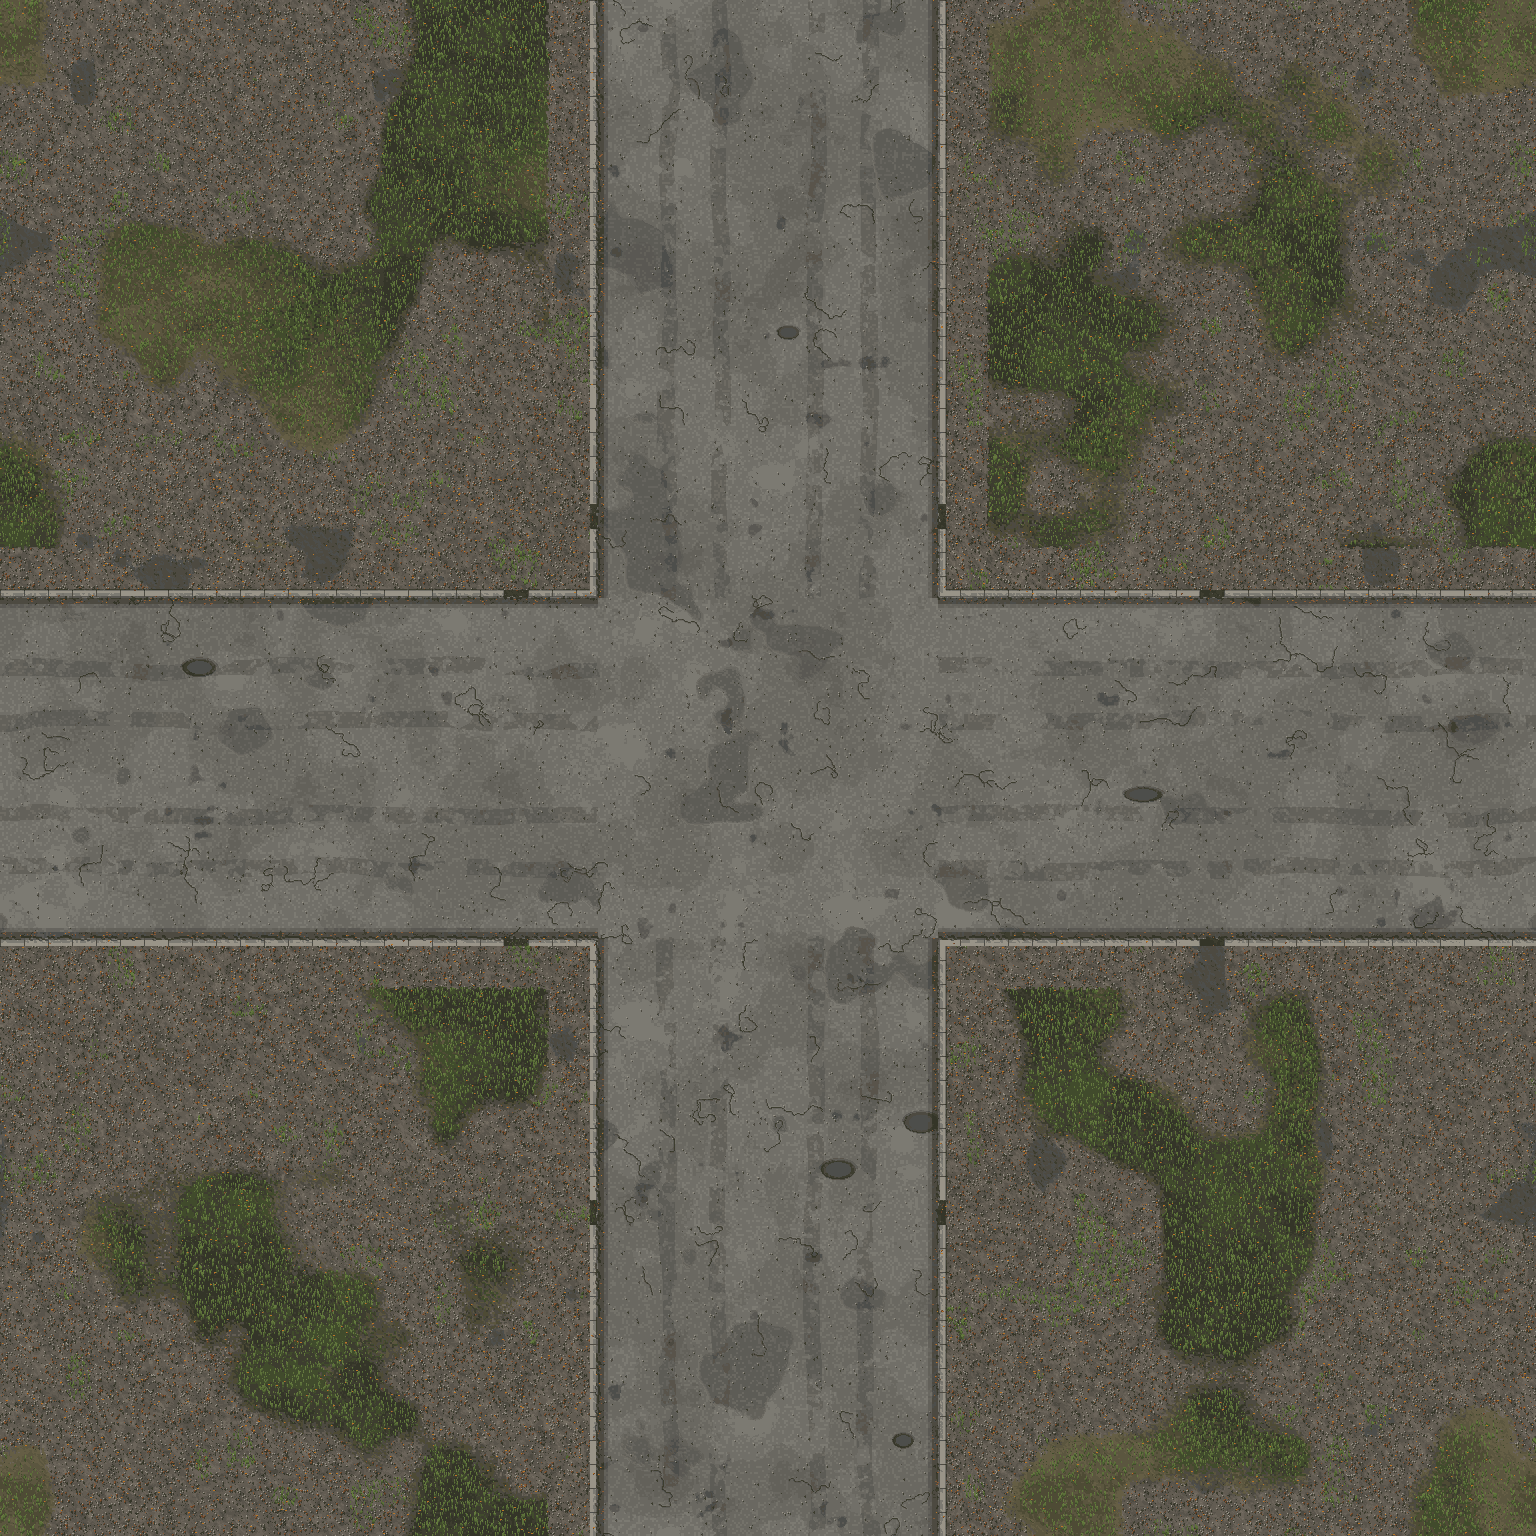
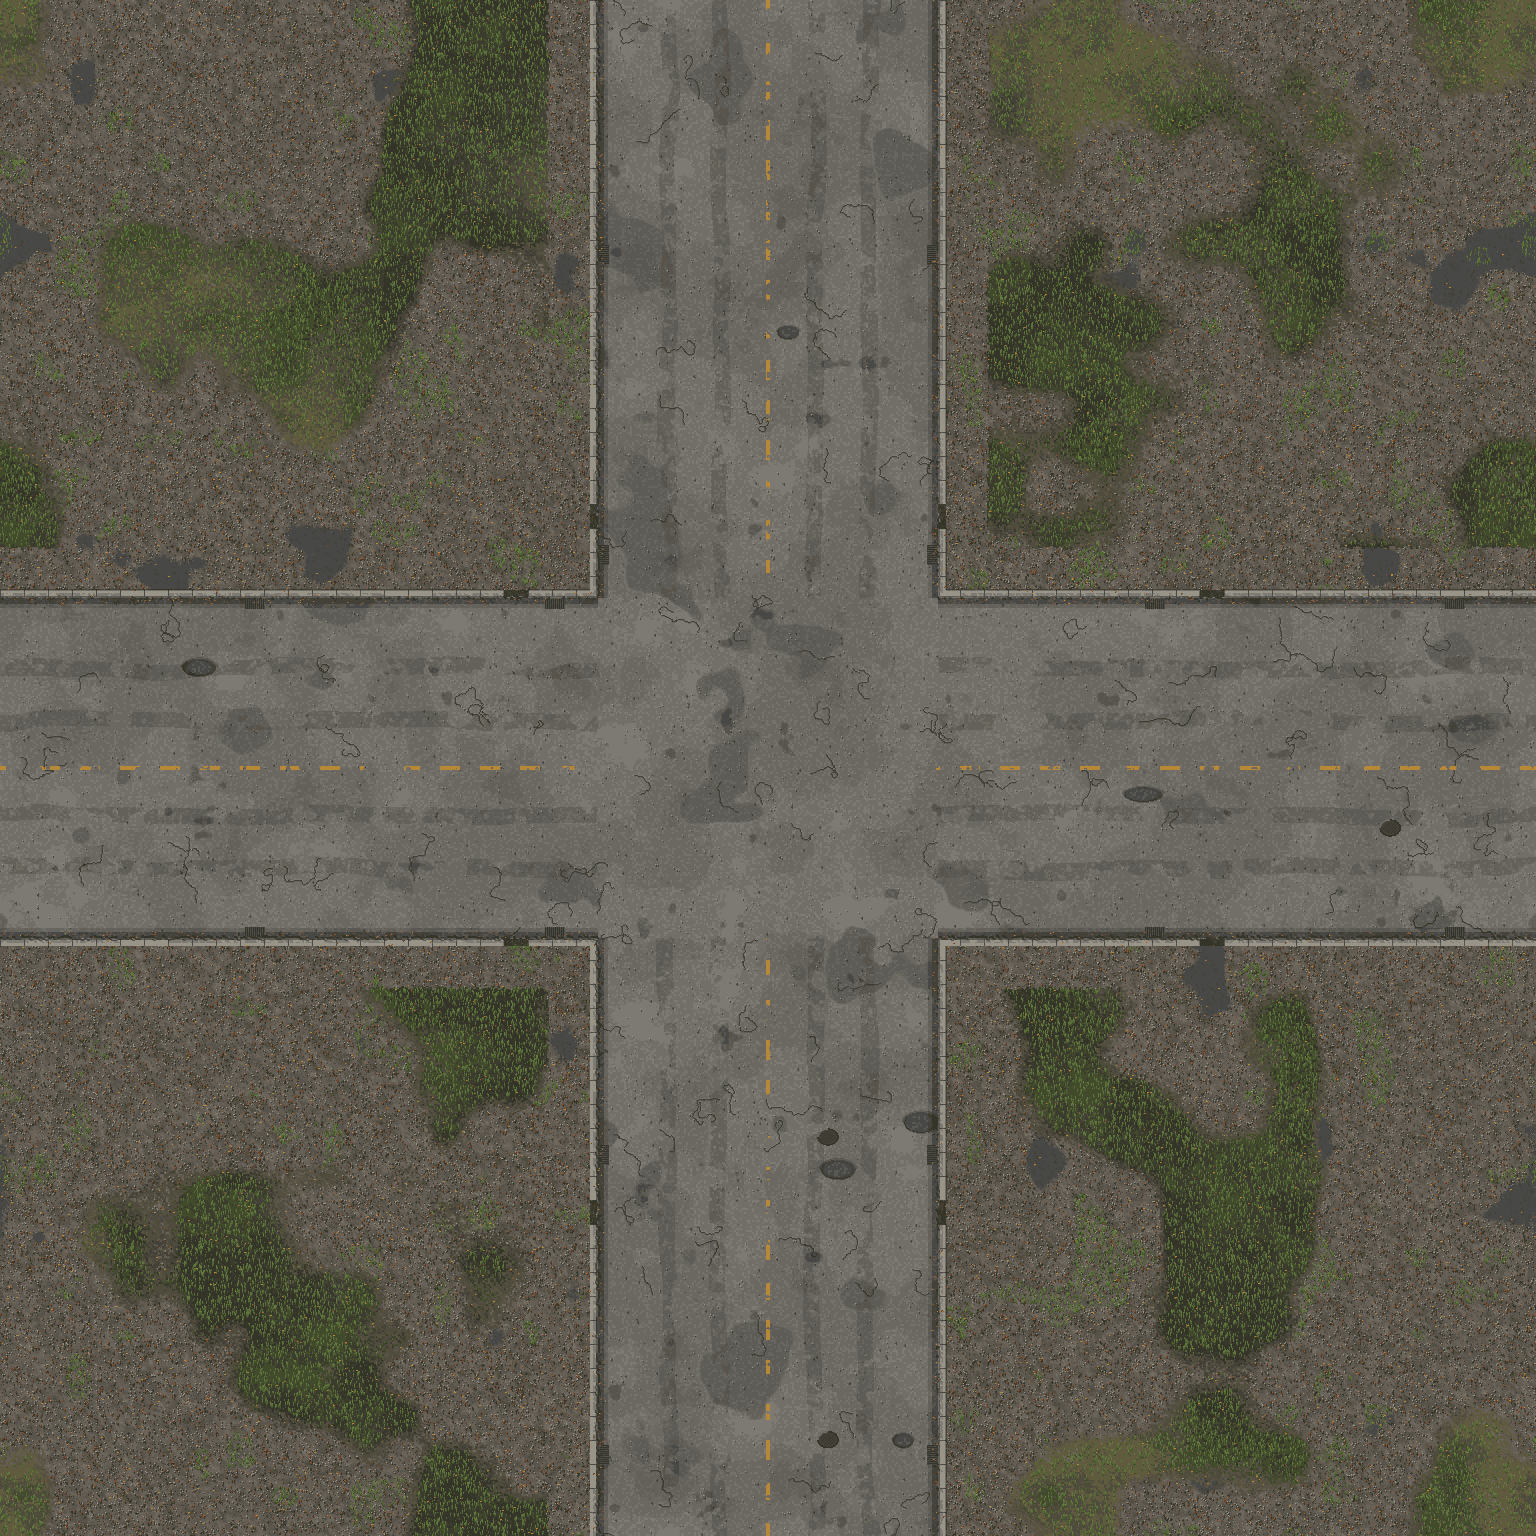
Road markings, manholes, drains and verge clutter on military / industrial streets; lamp glow at the HD lamp head
Claude-Session: https://claude.ai/code/session_01Q3d652Ep37MrDZiN13QEse

Changed region(s): [[0.5312, 0.7188, 0.5625, 0.75]]

diff --git a/tools/wa_ground_districts.py b/tools/wa_ground_districts.py
@@ -271,6 +271,64 @@ def potholes(alb, hf, m, seed, n, water=(70, 78, 80)):
     return alb, hf
 
 
+def road_paint(alb, rv, rh, col, centre_dash=(12.0, 10.0), edge_lines=False, wear=0.38):
+    """faded road markings: dashed centre line, optional solid edge lines."""
+    av, ah, inter = arm_masks(rv, rh)
+    c = (R0 + R1) / 2
+    worn = (noise(9501, 4, 2) > wear) & (noise(9502, 2, 1) > 0.18)
+    d, g = centre_dash
+    paint = (av & (np.abs(X - c) < 0.9) & ((Y % (d + g)) < d)) | (ah & (np.abs(Y - c) < 0.9) & ((X % (d + g)) < d))
+    if edge_lines:
+        for e in (R0 + 8.0, R1 - 8.0):
+            paint |= (av & (np.abs(X - e) < 0.8)) | (ah & (np.abs(Y - e) < 0.8))
+    m = paint & worn
+    alb[m] = alb[m] * 0.35 + np.array(col, float) * 0.65
+    return alb
+
+
+def manholes(alb, hf, rv, rh, seed, n=2):
+    """cast-iron covers on the carriageway: dark rim, lit top-left arc, grid."""
+    av, ah, inter = arm_masks(rv, rh)
+    rng = np.random.default_rng(seed)
+    c = (R0 + R1) / 2
+    spots = []
+    for _ in range(n):
+        if rng.random() < 0.5:
+            spots.append((c + rng.choice([-30, 30]), rng.choice([rng.uniform(40, 230), rng.uniform(540, 730)])))
+        else:
+            spots.append((rng.choice([rng.uniform(40, 230), rng.uniform(540, 730)]), c + rng.choice([-30, 30])))
+    for (cx, cy) in spots:
+        d = np.sqrt((X - cx) ** 2 + ((Y - cy) / 0.8) ** 2)
+        lid = d < 4.5
+        alb[lid] = (64, 62, 60)
+        grid = lid & (d < 3.6) & (((np.floor(X * 2) + np.floor(Y * 2)) % 3) == 0)
+        alb[grid] = (44, 42, 40)
+        rim = (d >= 4.5) & (d < 5.4)
+        alb[rim] = (36, 34, 32)
+        lit = rim & (X < cx) & (Y < cy)
+        alb[lit] = (110, 106, 100)
+        hf[lid] -= 0.2
+    return alb, hf
+
+
+def drains(alb, rv, rh, seed, step=150.0):
+    """storm-drain grates in the gutter along the kerbs."""
+    av, ah, inter = arm_masks(rv, rh)
+    rng = np.random.default_rng(seed)
+    off = rng.uniform(0, step)
+    for edge, side in ((R0, 1), (R1, -1)):
+        gx = edge + side * 3.0
+        for t in np.arange(off, W, step):
+            if R0 - 10 < t < R1 + 10:
+                continue
+            for (mask, u, v) in ((av, X, Y), (ah, Y, X)):
+                g = mask & (np.abs(u - gx) < 2.5) & (np.abs(v - t) < 5.0)
+                alb[g] = (40, 40, 40)
+                bars = g & ((np.floor(v * 2) % 2) == 0)
+                alb[bars] = (78, 76, 72)
+    return alb
+
+
 def rural():
     road, walk, plot, rv, rh, dv, dh = masks()
     alb, hf, soil = grass_field(1101, dryness=0.6)
@@ -387,7 +445,10 @@ def military():
     hf += 0.4 * noise(3108, 2, 2) * gravel_t
     alb = speckle(alb, gravel_t > 0.5, 0.2, [(150, 146, 134), (84, 80, 72), (124, 116, 100)], 3109)
     alb = blades(alb, plot & (gravel_t < 0.5), 3110, 60000, cols=((96, 92, 56), (110, 104, 62), (124, 116, 70)))
+    alb = road_paint(alb, rv, rh, (214, 210, 196), (14.0, 12.0), edge_lines=True, wear=0.45)
+    alb, hf = manholes(alb, hf, rv, rh, 3114, 2)
     alb, hf, gutter = kerbs(alb, hf, road, walk, (146, 144, 134), 14.0, 3)
+    alb = drains(alb, rv, rh, 3115)
     alb = clusters(alb, gutter, [(150, 104, 54), (84, 100, 50)], 3113, 0.05)
     alb = leaves(alb, plot, 0.002, 3111)
     return alb, hf
@@ -417,7 +478,10 @@ def industrial():
     pud = soft(noise(4112, 40, 3), 0.76, 0.8) * (lt > 0.5)
     alb = blend(alb, (60, 66, 68), pud * 0.8)
     alb = blades(alb, (plot & (lt < 0.5)) | ((lt > 0.5) & (noise(4113, 20, 2) > 0.68)), 4114, 50000)
+    alb = road_paint(alb, rv, rh, (206, 168, 52), (10.0, 10.0), edge_lines=False, wear=0.4)
+    alb, hf = manholes(alb, hf, rv, rh, 4118, 3)
     alb, hf, gutter = kerbs(alb, hf, road, walk, (138, 136, 128), 12.0, 4)
+    alb = drains(alb, rv, rh, 4119)
     alb = clusters(alb, gutter, [(150, 104, 54), (60, 58, 52)], 4117, 0.05)
     alb = leaves(alb, plot | walk, 0.003, 4115)
     return alb, hf

diff --git a/README_1380_DEV1_WORLD_HD.md b/README_1380_DEV1_WORLD_HD.md
@@ -248,3 +248,17 @@ QA: `tests/qa_vertical_fence_capture.gd`.
   → `art/world_hd/interior_trim_hd.png`): вместо мягких градиентов плоские
   ступени тени, у задней стены деревянный плинтус, порог из досок со
   стальной окантовкой.
+
+## Живые улицы военного района и промзоны (dev12)
+
+- Разметка (`road_paint`):
+  - военный район: белая прерывистая осевая и белые краевые линии;
+  - промзона: жёлтая прерывистая осевая;
+  - краска местами стёрта.
+- Люки на проезжей части (`manholes`) и решётки ливнёвки у бордюров
+  (`drains`).
+- На обочинах (`_dress_service_verges`) группы по 1–3 предмета:
+  - военный район: бетонные блоки, мешки с песком, конусы, армейские ящики,
+    знаки;
+  - промзона: бочки, ящики, коробки, канистры, мешки с мусором, конусы.
+- Фонари: свечение и источник света перенесены к плафону HD-модели.
